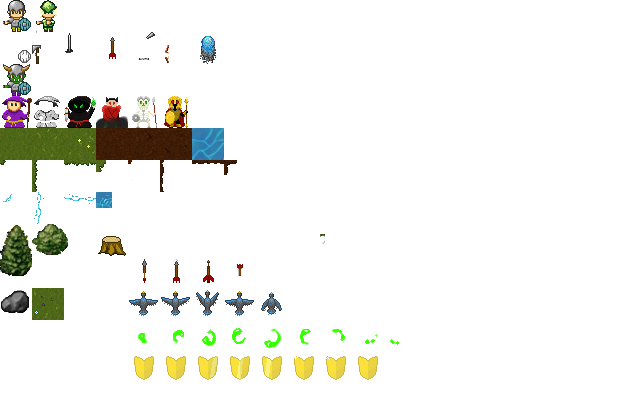
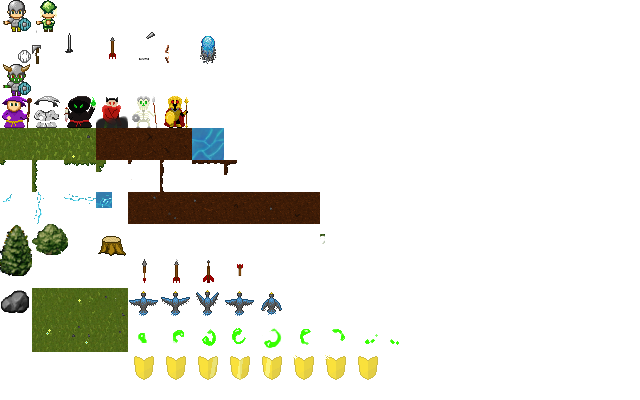
added new grass dirt and rincle graphics and added undo move

diff --git a/IronTactics/src/fr/frozen/iron/client/gameStates/Game.java b/IronTactics/src/fr/frozen/iron/client/gameStates/Game.java
@@ -33,6 +33,7 @@ import fr.frozen.iron.client.messageEvents.GameInfoReceivedEvent;
 import fr.frozen.iron.client.messageEvents.GameTurnEvent;
 import fr.frozen.iron.client.messageEvents.MapRecievedEvent;
 import fr.frozen.iron.client.messageEvents.PlayerListReceivedEvent;
+import fr.frozen.iron.client.messageEvents.UndoMoveEvent;
 import fr.frozen.iron.client.messageEvents.UnitsListReceivedEvent;
 import fr.frozen.iron.common.GameContext;
 import fr.frozen.iron.common.IronWorld;
@@ -54,6 +55,7 @@ public class Game extends GameState implements NetEventListener, MouseListener, 
 	protected IronClient netClient;
 	protected TextField textField;
 	protected ChatWindow chatWindow;
+	protected Button undoButton;
 	
 	protected IronWorld world;
 	protected boolean worldReady = false; 
@@ -68,6 +70,7 @@ public class Game extends GameState implements NetEventListener, MouseListener, 
 	
 	protected IronUnit selectedUnit = null;
 	protected IronUnit hoveredUnit = null;
+	protected IronUnit lastUnitMoved = null;
 	
 	protected PopupList popup;
 	
@@ -110,7 +113,20 @@ public class Game extends GameState implements NetEventListener, MouseListener, 
 			}
 		});
 		
+		undoButton = new Button("Undo move", 590, 550, 0, 0);
+		undoButton.setDim((int)spriteNormal.getWidth(),(int)spriteNormal.getHeight());
+		undoButton.setHoverSprite(spriteHover);
+		undoButton.setNormalSprite(spriteNormal);
+		
+		undoButton.addActionListener(new ActionListener() {
+			@Override
+			public void actionPerformed(ActionEvent e) {
+				requestUndo();
+			}
+		});
+		
 		gui.addComponent(button);
+		gui.addComponent(undoButton);
 		
 		backTex = ISpriteManager.getInstance().getSprite("backTex");
 		backTex2 = ISpriteManager.getInstance().getSprite("popupTex");
@@ -188,12 +204,18 @@ public class Game extends GameState implements NetEventListener, MouseListener, 
 				e.printStackTrace();
 			}
 		}
+		
+		if (ne instanceof UndoMoveEvent) {
+			IronUnit unit = world.getUnitFromId(((UndoMoveEvent)ne).getUnitId());
+			if (unit != null) {
+				unit.undoMove();
+			}
+		}
 	}
 	
 	
 	public void setTurn(int playerId) {
 		popup.setVisible(false);
-		
 		if (turnPlayerId != -1) {
 			playerInfo.get(turnPlayerId).setTurnToPlay(false);
 			world.endTurn(turnPlayerId);
@@ -210,6 +232,7 @@ public class Game extends GameState implements NetEventListener, MouseListener, 
 			selectedUnit.setSelected(false);
 		}
 		selectedUnit = null;
+		lastUnitMoved = null;
 	}
 	
 	
@@ -228,6 +251,9 @@ public class Game extends GameState implements NetEventListener, MouseListener, 
 			if (unitSrc.hasPlayed()) {
 				unitSrc.setSelected(false);
 				selectedUnit = null;
+			}
+			if (unitSrc.getOwnerId() == netClient.getClientId()) {
+				lastUnitMoved = unitSrc;
 			}
 			break;
 		case IronUnit.ACTION_SKILL :
@@ -256,7 +282,7 @@ public class Game extends GameState implements NetEventListener, MouseListener, 
 	public void update(float deltaTime) {
 		super.update(deltaTime);
 		gui.update(deltaTime);
-
+		
 		if (!worldReady) return;
 		world.update(deltaTime);
 		
@@ -265,6 +291,11 @@ public class Game extends GameState implements NetEventListener, MouseListener, 
 				Bird bird = new Bird(this);
 				addGameObject(bird, "bird");
 			}
+		}
+		if (lastUnitMoved != null && lastUnitMoved.canUndo()) {
+			undoButton.enable();
+		} else {
+			undoButton.disable();
 		}
 		
 		timeLeftForTurn -= deltaTime;
@@ -406,6 +437,17 @@ public class Game extends GameState implements NetEventListener, MouseListener, 
 		System.arraycopy(IronUtil.intToByteArray(y), 0, data, 12, 4);
 		
 		netClient.sendMessage(Protocol.GAME_ACTION_REQUEST, data);
+	}
+	
+	protected void requestUndo() {
+		if (lastUnitMoved == null) {
+			return;
+		}
+		
+		byte []data = new byte[4];
+		System.arraycopy(IronUtil.intToByteArray(lastUnitMoved.getId()), 0, data, 0, 4);
+		
+		netClient.sendMessage(Protocol.GAME_UNDO_REQUEST, data);
 	}
 
 	@Override

diff --git a/IronTactics/src/fr/frozen/iron/common/entities/IronUnit.java b/IronTactics/src/fr/frozen/iron/common/entities/IronUnit.java
@@ -5,6 +5,8 @@ import java.io.IOException;
 import java.util.ArrayList;
 import java.util.List;
 
+import org.lwjgl.util.vector.Vector2f;
+
 import fr.frozen.game.AnimationSequence;
 import fr.frozen.game.Font;
 import fr.frozen.game.FontManager;
@@ -69,6 +71,9 @@ public class IronUnit extends GameObject implements Mover {
 	protected ISprite teamColorSprite = null;
 	protected ISprite weaponSprite = null;
 	protected AnimationSequence bloodFx;
+	
+	protected boolean canUndo = false;
+	protected Vector2f oldPos;
 	
 	public IronUnit(IronWorld world, int id, int type, int ownerId, float x, float y) {
 		super(null, x, y);
@@ -139,6 +144,11 @@ public class IronUnit extends GameObject implements Mover {
 		if (played || hasMoved())
 			playedLastTurn = true;
 		played = true;
+		canUndo = false;
+	}
+	
+	public boolean canUndo() {
+		return canUndo;
 	}
 	
 	public UnitStats getStats() {
@@ -205,6 +215,7 @@ public class IronUnit extends GameObject implements Mover {
 		}
 		played = isDead();
 		playedLastTurn = false;
+		canUndo = false;
 		getStats().reInit();
 		getEquipment().reInit();
 	}
@@ -228,6 +239,7 @@ public class IronUnit extends GameObject implements Mover {
 	}
 	
 	public void move(int x, int y, int cost) {
+		oldPos = new Vector2f(_pos.getX(), _pos.getY());
 		world.getMap().getTile((int)_pos.getX(), (int)_pos.getY()).setUnitOnTile(null);
 		_pos.set(x, y);
 		world.getMap().getTile((int)_pos.getX(), (int)_pos.getY()).setUnitOnTile(this);
@@ -237,6 +249,16 @@ public class IronUnit extends GameObject implements Mover {
 		if (getStats().getMovement() == 0) {
 			setPlayed(true);
 		}
+		canUndo = true;
+	}
+	
+	public void undoMove() {
+		setPlayed(false);
+		getStats().setMovement(getStats().getOldMovement());
+		canUndo = false;
+		world.getMap().getTile((int)_pos.getX(), (int)_pos.getY()).setUnitOnTile(null);
+		_pos.set(oldPos.getX(), oldPos.getY());
+		world.getMap().getTile((int)_pos.getX(), (int)_pos.getY()).setUnitOnTile(this);
 	}
 	
 	@Override
@@ -351,6 +373,7 @@ public class IronUnit extends GameObject implements Mover {
 	
 	public void setPlayed(boolean val) {
 		played = val;
+		canUndo = false;
 	}
 	
 	

diff --git a/IronTactics/src/fr/frozen/iron/client/components/Button.java b/IronTactics/src/fr/frozen/iron/client/components/Button.java
@@ -11,6 +11,7 @@ public class Button extends Component {
 	
 	protected ISprite normalSprite = null;
 	protected ISprite hoverSprite = null;
+	protected boolean enabled;
 	//protected ISprite selectedSprite = null;
 	
 	boolean hover;
@@ -21,6 +22,15 @@ public class Button extends Component {
 	public Button(String label, int x, int y, int w, int h) {
 		super (x,y, w, h);
 		this.label = label;
+		enabled = true;
+	}
+	
+	public void enable() {
+		enabled = true;
+	}
+	
+	public void disable() {
+		enabled = false;
 	}
 	
 	public void setNormalSprite(ISprite sprite) {
@@ -67,20 +77,35 @@ public class Button extends Component {
 		}
 		ISprite sprite = normalSprite;
 
-		if (hover) {
+		if (hover && enabled) {
 			sprite = hoverSprite;
 		}
 		/*if (selectedSprite) = selectedSprite;*/
+		if (enabled) {
+			sprite.setColor(0xffffff);
+		} else {
+			sprite.setColor(0xbbbbbb);
+		}
 		sprite.draw(pos.getX(), pos.getY());
 		
 		
-		float red = hover ? (float)0x29 / (float) 0xff : (float)0x5e / (float)0xff; 
-		float green = hover ? (float)0x16 / (float) 0xff : (float)0x32 / (float)0xff;
-		float blue = hover ? (float)0x2 / (float) 0xff : (float)0x03 / (float)0xff;
+		float red = (float)0x5e / (float)0xff; 
+		float green = (float)0x32 / (float)0xff;
+		float blue = (float)0x03 / (float)0xff;
+		
+		if (hover && enabled) {
+			red = (float)0x29 / (float) 0xff; 
+			green = (float)0x16 / (float) 0xff;
+			blue = (float)0x2 / (float) 0xff;
+		}
 		
 		//TODO : dans textrenderer mettre method qui retourne la distance entre deux lettres
 		float textWidth = label.length() * 10;
 		
+		
+		/*if (!enabled) {
+			red = green = blue = 0.5f;
+		}*/
 		
 		float x = (float) (pos.getX() + getWidth() / 2 - textWidth / 2);
 		float y = (float)(pos.getY() + getHeight() / 2 - 8);
@@ -101,12 +126,16 @@ public class Button extends Component {
 
 	@Override
 	public void onLeftClick(int x, int y) {
-		notifyActionListeners();
+		if (enabled) {
+			notifyActionListeners();
+		}
 	}
 
 	@Override
 	public void onRightClick(int x, int y) {
-		notifyActionListeners();
+		if (enabled) {
+			notifyActionListeners();
+		}
 	}
 
 	@Override

diff --git a/IronTactics/src/fr/frozen/iron/serverSessions/GameSession.java b/IronTactics/src/fr/frozen/iron/serverSessions/GameSession.java
@@ -170,12 +170,31 @@ public class GameSession extends BaseGameController implements GameContext {
 	
 	@Override
 	public void handle(Message msg) {
+		//TODO : add security everywhere in case there is false data sending
 		switch (Protocol.get(msg.getType())) {
 		case GAME_END_TURN_REQUEST :
 			synchronized (this) {
 				if (turnPlayerId == msg.getClientId()) {
 					switchTurns();
 				}
+			}
+			break;
+		
+		case GAME_UNDO_REQUEST :
+			IronUnit unit = world.getUnitFromId(IronUtil.byteArrayToInt(msg.getData()));
+			if (unit != null && msg.getClientId() == turnPlayerId && !unit.isDead() 
+					&& unit.getOwnerId() == turnPlayerId && unit.canUndo()) {
+				
+				unit.undoMove();
+				
+				List<SocketChannel> channels = getAllChannels();
+				if (channels == null){
+					return;//TODO handle this type of error ?
+				}
+				MessageToSend msgToSend = new MessageToSend(channels,
+						Protocol.GAME_UNDO.ordinal(),
+						msg.getData());
+				server.getWriter().addMsg(msgToSend);
 			}
 			break;
 		

diff --git a/IronTactics/src/fr/frozen/iron/common/entities/UnitStats.java b/IronTactics/src/fr/frozen/iron/common/entities/UnitStats.java
@@ -17,6 +17,7 @@ public class UnitStats {
 	
 	protected int maxMovement;
 	protected int movement;
+	protected int oldMovement;
 	
 	public UnitStats() {
 	}
@@ -28,11 +29,11 @@ public class UnitStats {
 		this.baseIntelligence = this.intelligence = intelligence;
 		this.maxMana = this.mana = maxMana;
 		
-		this.maxMovement = this.movement = movement;
+		this.oldMovement = this.maxMovement = this.movement = movement;
 	}
 	
 	public void reInit() {
-		movement = maxMovement;
+		oldMovement = movement = maxMovement;
 		strength = baseStrength;
 		agility = baseAgility;
 		intelligence = baseIntelligence;
@@ -98,7 +99,12 @@ public class UnitStats {
 		return movement;
 	}
 	
+	public int getOldMovement() {
+		return oldMovement;
+	}
+	
 	public void setMovement(int val) {
+		oldMovement = movement;
 		movement = Math.max(0, Math.min(val, maxMovement));
 	}
 	

diff --git a/IronTactics/src/fr/frozen/iron/client/IronClient.java b/IronTactics/src/fr/frozen/iron/client/IronClient.java
@@ -19,6 +19,7 @@ import fr.frozen.iron.client.messageEvents.NewSessionEvent;
 import fr.frozen.iron.client.messageEvents.PlayerListReceivedEvent;
 import fr.frozen.iron.client.messageEvents.PlayerLogoutEvent;
 import fr.frozen.iron.client.messageEvents.RaceChoiceEvent;
+import fr.frozen.iron.client.messageEvents.UndoMoveEvent;
 import fr.frozen.iron.client.messageEvents.UnitsListReceivedEvent;
 import fr.frozen.iron.common.IronMap;
 import fr.frozen.iron.common.PlayerGameInfo;
@@ -65,7 +66,9 @@ public class IronClient extends BaseClient {
 		case GAME_TURN :
 			dispatchEvent(new GameTurnEvent(IronUtil.byteArrayToInt(msg.getData())));
 			break;
-		
+		case GAME_UNDO:
+			dispatchEvent(new UndoMoveEvent(IronUtil.byteArrayToInt(msg.getData())));
+			break;
 		case GAME_ACTION : 
 			try {
 				is = new DataInputStream(new ByteArrayInputStream(msg.getData()));

diff --git a/IronTactics/src/fr/frozen/iron/protocol/Protocol.java b/IronTactics/src/fr/frozen/iron/protocol/Protocol.java
@@ -54,6 +54,8 @@ public enum Protocol {
 	GAME_READY,
 	GAME_TURN,//tells whos turn it is
 	GAME_END_TURN_REQUEST,//indicates that the player has ended his turn
+	GAME_UNDO,//undo last move, unitId to undo
+	GAME_UNDO_REQUEST,
 	
 	GAME_ACTION_REQUEST,// unit id - action type - further data
 	GAME_ACTION;// unit id - action type - further data

diff --git a/IronTactics/src/fr/frozen/iron/client/messageEvents/UndoMoveEvent.java b/IronTactics/src/fr/frozen/iron/client/messageEvents/UndoMoveEvent.java
@@ -1,0 +1,15 @@
+package fr.frozen.iron.client.messageEvents;
+
+import fr.frozen.network.client.NetEvent;
+
+public class UndoMoveEvent implements NetEvent {
+	protected int unitId;
+	
+	public UndoMoveEvent(int unitId) {
+		this.unitId = unitId;
+	}
+	
+	public int getUnitId() {
+		return unitId;
+	}
+}
